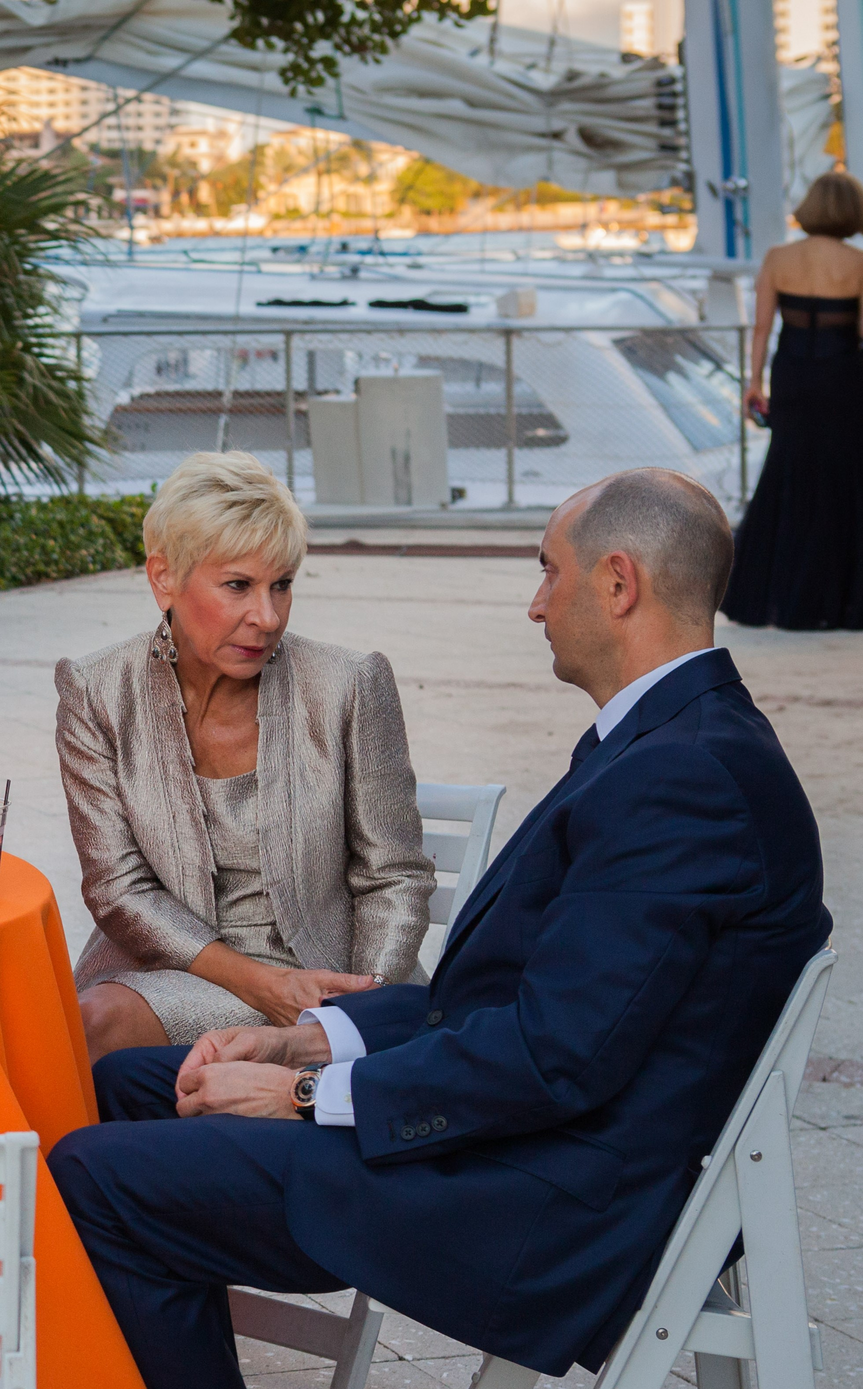
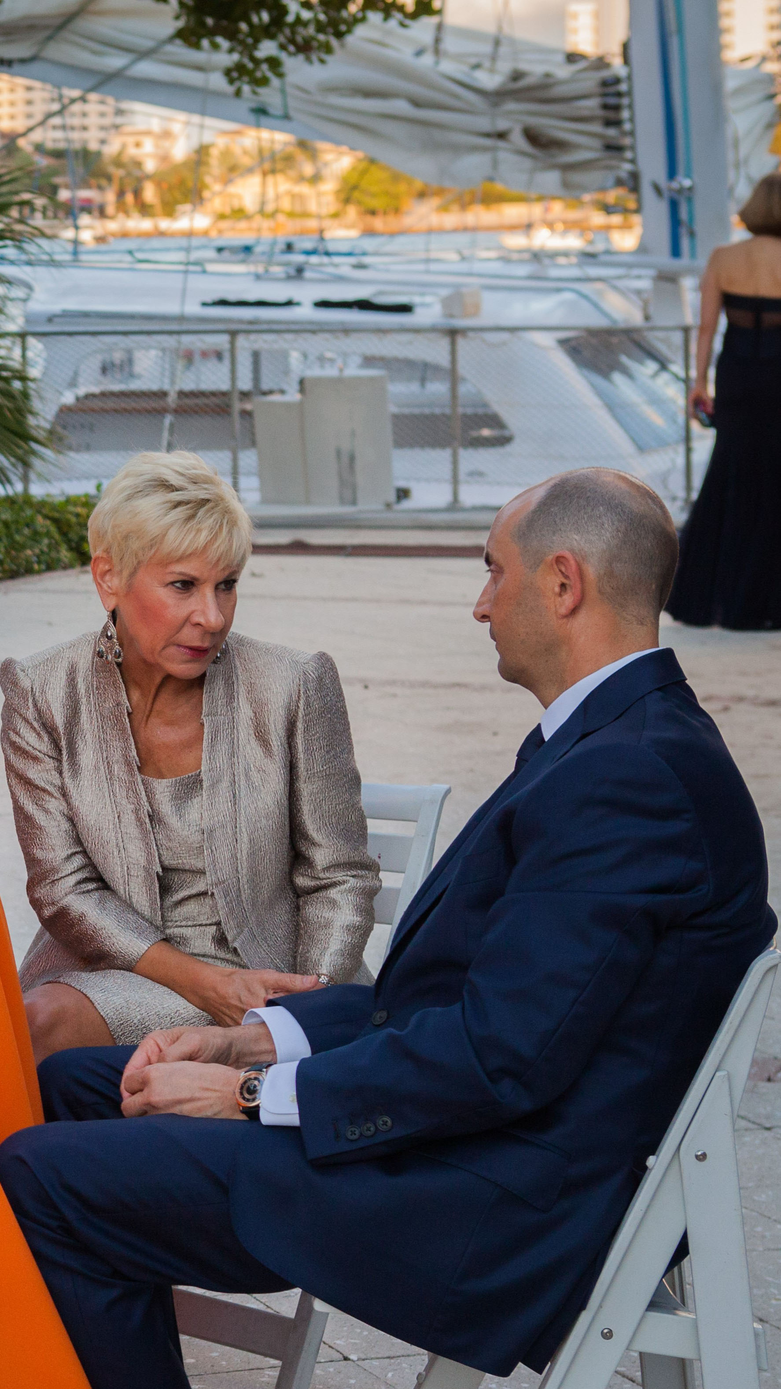
Hotfix 2.2

diff --git a/unit_3/css/photo.css b/unit_3/css/photo.css
@@ -1,19 +1,18 @@
 @import url(https://fonts.googleapis.com/css?family=Poiret+One);
 @import url(https://fonts.googleapis.com/css?family=Comfortaa);
+
 header{
 	padding: 1.25em;
 	font-size: 1.50em;
 	color: black;
-
 }
 h1{
 	font-size: 1.75em;
-	color: white;
-	margin-top: -.5em;
-
+	color: #E52B21;
+	font-family: 'Poiret One', cursive;
 }
 hr{
-	margin-top: -1.25em;
+	
 }
 h2{
 	color: #eee;
@@ -24,43 +23,16 @@ h2{
 body{
 	background: url("../images/back.jpg");
 	background-size: cover;
-	font-family: georgia, helvetica, Arial, sans-serif
+	font-family: 'Comfortaa', cursive;
 	line-height:1.3;
 }
-#box {
-	background-color: black;
-	background-size: cover;
-	width: 25.000em;
-	height: 43.750px;
-	display: inline-block;
-}	
-#box1 {
-	background: url("../images/tennis.jpg");
-	background-color: black;
-	background-size: cover;
-	/* width: 29.294em; */
-	height: 43.750em;
-	display: inline-block;
+img {
+	width: 25%;
 }
-#box2 {
-	background-size: cover;
-	/* width: 29.294em; */
+p{
+	color: #555555;
+	font-size: 24px;
 }
-#box3 {
-	background: url("../images/piano.jpg");
-	background-color: black;
-	background-size: cover;
-	/* width: 29.294em; */
-	height: 43.750em;
-	display: inline-block;
-}
-#box4 {
-	background: url("../images/event.jpg");
-	background-color: black;
-	background-size: cover;
-	/* width: 29.294em; */
-	height: 43.750em;
-	display: inline-block;
 }
 .phototitle{
 	text-align: center;
@@ -76,7 +48,7 @@ main{
 
 }
 
-a{
+a,nav{
 	color: grey;
 	text-decoration: none;
 	font-size: 30px;
@@ -86,4 +58,3 @@ footer{
 	padding: 5px;
 	text-align: center;
 }
-

diff --git a/unit_3/index.html b/unit_3/index.html
@@ -8,8 +8,8 @@
 	<header>
 		<h1>Core Photography</h1>
 		<nav>
-			<a id="firstlink" href="#">About Us</a>|
-			<a href="#">Portfolios</a>|
+			<a id="firstlink" href="#">About Us</a> |
+			<a href="#">Portfolios</a> |
 			<a href="#">Contact</a>
 		</nav>
 		<hr>
@@ -21,19 +21,19 @@
 	<section>
 		<a href="#" class="boxes">
 			<h3 class="phototitle">Sports</h3>
-			<img src="" alt="">
+			<img src="images/tennis.jpg"" alt="Tennis player hitting a tennis ball">
 		</a>
 		<a href="#" class="boxes">
 			<h3 class="phototitle">Celebrations</h3>
-			<img src="" alt="">
+			<img src="images/grad.jpg" alt="girl with graduation cap laying forward looking at the camera">
 		</a>
 		<a href="#" class="boxes">
 			<h3 class="phototitle">Lifestyle</h3>
-			<img src="" alt="">
+			<img src="images/piano.jpg" alt="Asian students posing infront of a piano">
 		</a>
 		<a href="#" class="boxes">
 			<h3 class="phototitle">Events</h3>
-			<img src="" alt="">
+			<img src="images/event.jpg"" alt="a man and a woman talking while sitting on a table at a black tie event">
 		</a>
 	</section>
 	<section>
